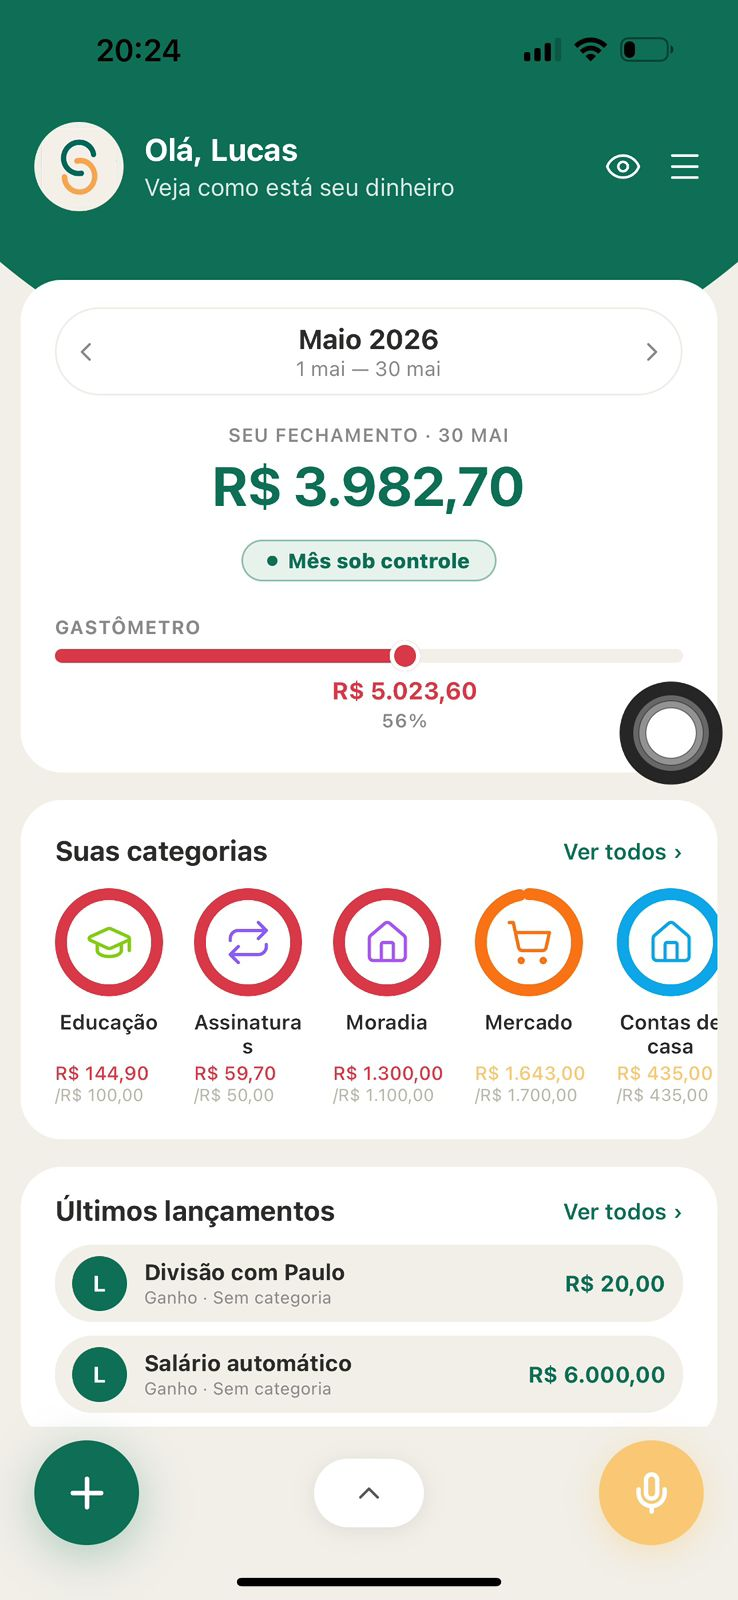
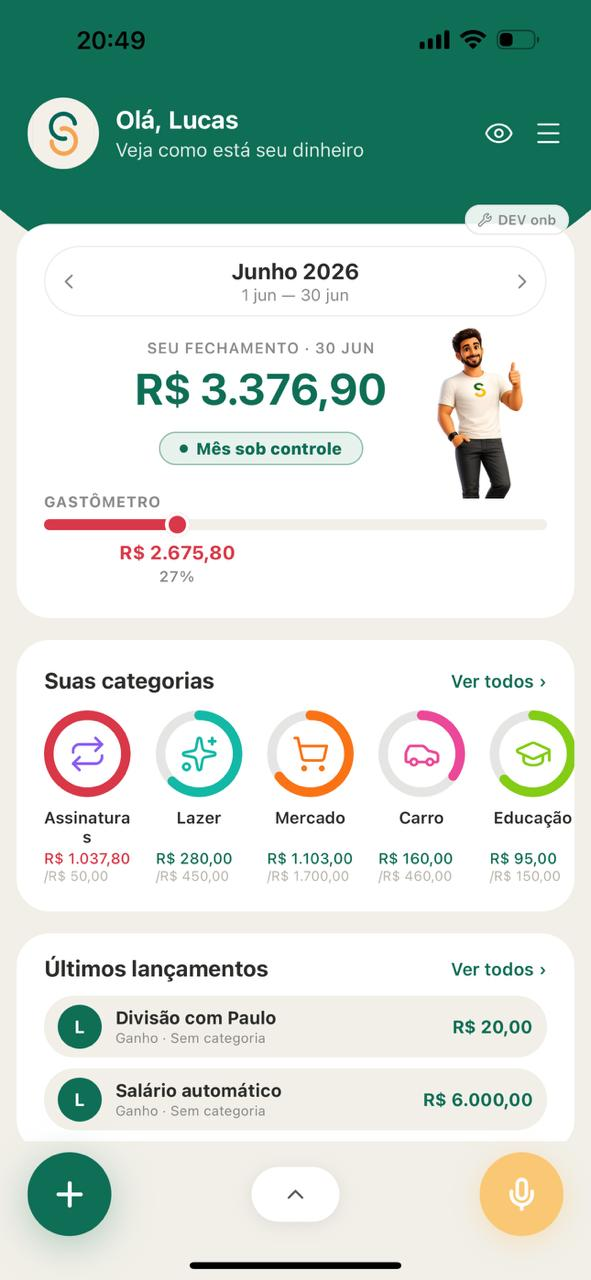
fix: preço anual R$129,90 + novo screenshot mockup

diff --git a/index.html b/index.html
@@ -1150,9 +1150,9 @@ function setPricing(ciclo) {
   var isAnual = ciclo === 'anual';
   document.getElementById('btnMensal').classList.toggle('active', !isAnual);
   document.getElementById('btnAnual').classList.toggle('active', isAnual);
-  document.getElementById('planPrice').textContent = isAnual ? '10,43' : '14,90';
+  document.getElementById('planPrice').textContent = isAnual ? '10,83' : '14,90';
   document.getElementById('planPeriod').textContent = isAnual ? 'por mês, cobrado anualmente' : 'por mês';
-  document.getElementById('planAnnualNote').textContent = isAnual ? 'R$ 125,16/ano — economia de R$ 53,64' : '';
+  document.getElementById('planAnnualNote').textContent = isAnual ? 'R$ 129,90/ano — economia de R$ 48,90' : '';
 }
 </script>
 